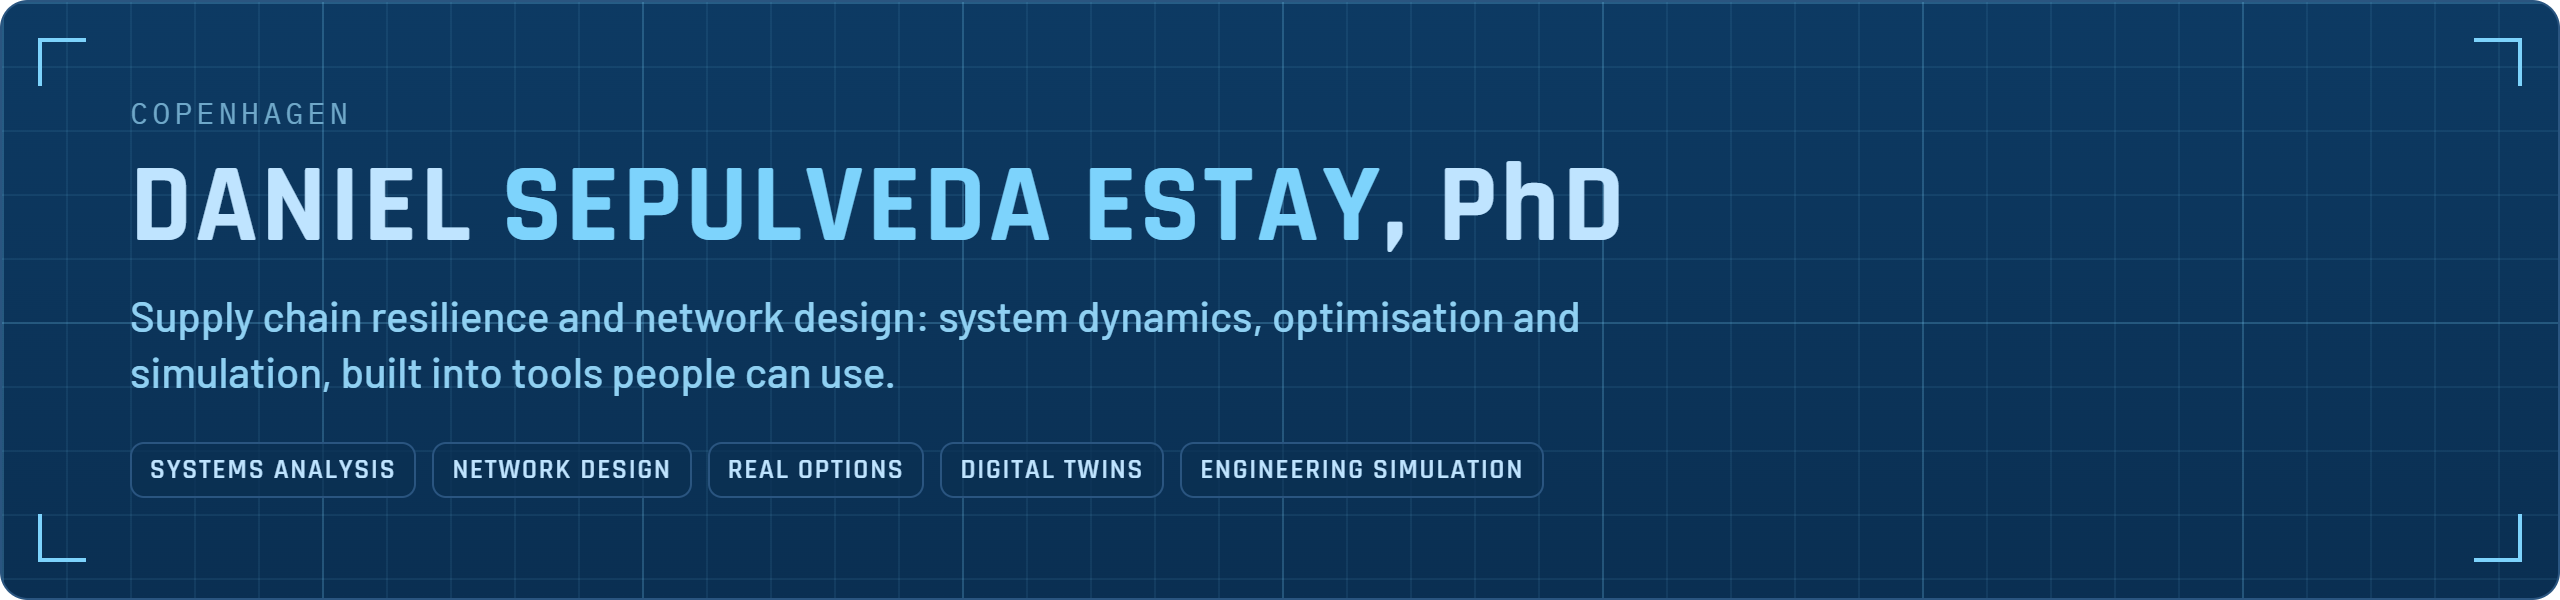
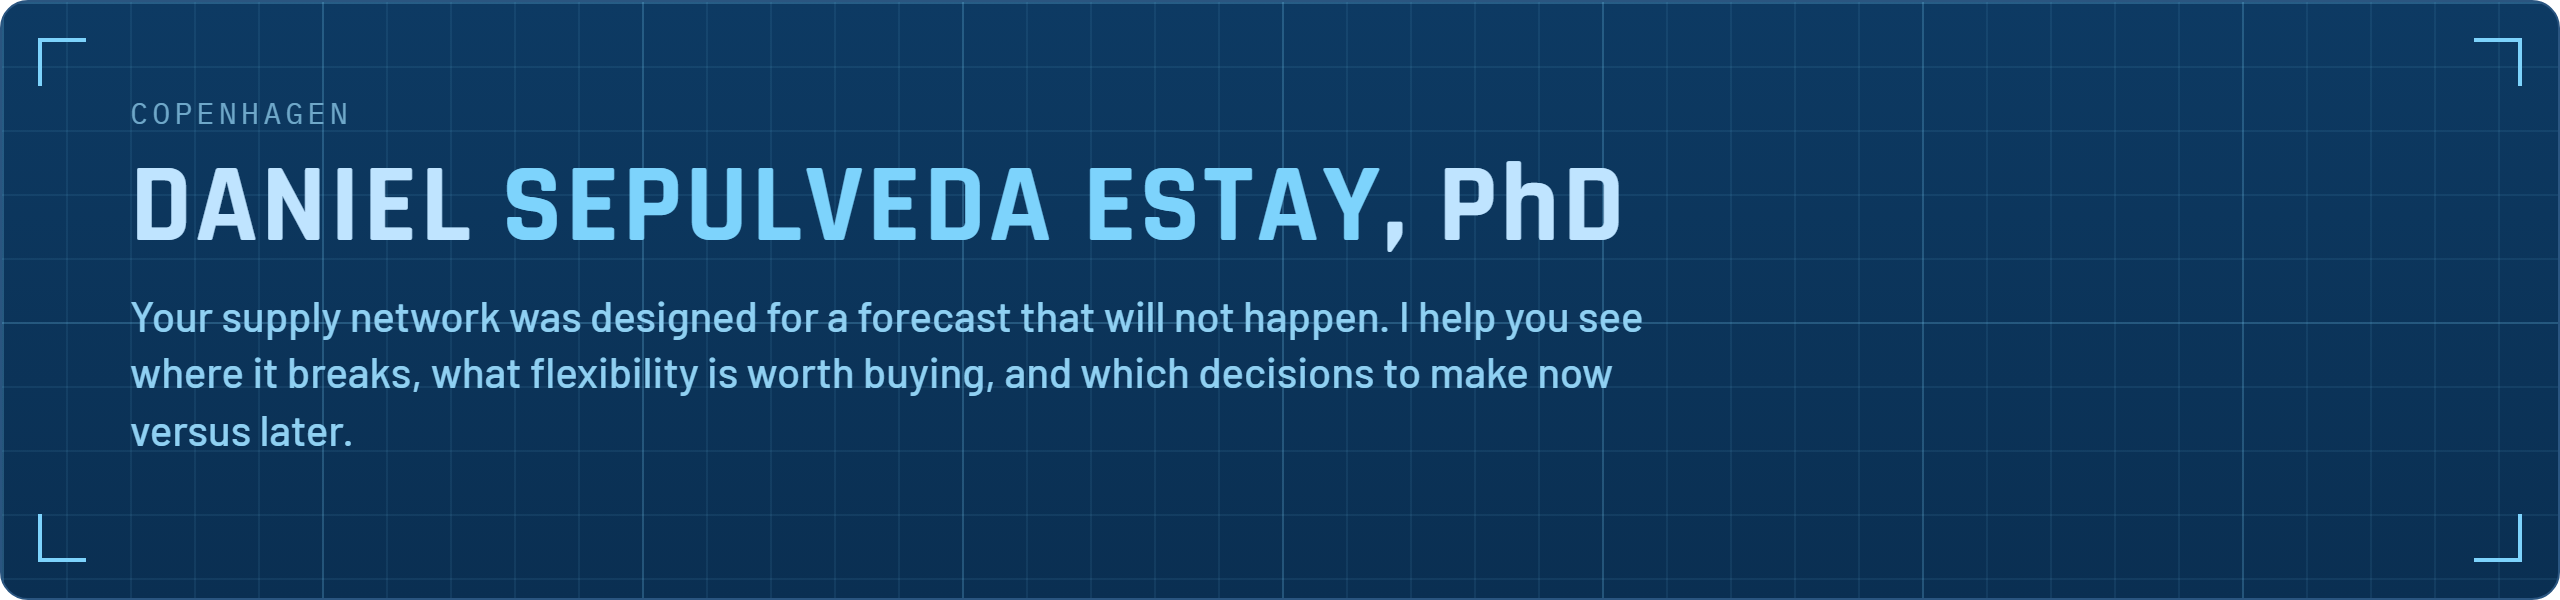
Reposition the profile for executives
- README rebuilt: headline on the executive's problem, five problems with driving ideas and
  tool links, four principles, three offers, four flagship tools as business questions,
  credibility strip, one call to action, and a Technical depth link. Expertise list,
  V&V text, research list and other tools moved to the Estay Dynamics site.
- Banner re-rendered from its source with the headline and without the method chips.
- AI_Projects badge replaced by Decision Labs.
- New Real Options screenshot (assets/real-options.jpg).
- The daily projects-table Action is switched off (manual run only).

Changed region(s): [[0.0312, 0.69, 0.5938, 0.84], [0.0312, 0.51, 0.6562, 0.57], [0.0312, 0.6, 0.625, 0.66]]

diff --git a/scripts/banner.html b/scripts/banner.html
@@ -41,8 +41,7 @@
   <div class="text">
     <div class="kicker">Copenhagen</div>
     <h1>Daniel <span>Sepulveda Estay</span><em>, PhD</em></h1>
-    <div class="tag">Supply chain resilience and network design: system dynamics, optimisation and simulation, built into tools people can use.</div>
-    <div class="chips"><b>Systems analysis</b><b>Network design</b><b>Real options</b><b>Digital twins</b><b>Engineering simulation</b></div>
+    <div class="tag">Your supply network was designed for a forecast that will not happen. I help you see where it breaks, what flexibility is worth buying, and which decisions to make now versus later.</div>
   </div>
 </div>
 <script>if (location.search.indexOf("light") >= 0) document.documentElement.className = "light";</script>

diff --git a/README.md b/README.md
@@ -1,134 +1,94 @@
 <picture>
-  <source media="(prefers-color-scheme: light)" srcset="assets/banner-light.png?v=3">
-  <img src="assets/banner-dark.png?v=3" width="100%" alt="Daniel Sepulveda Estay, PhD — supply chain resilience and network design: system dynamics, optimisation and simulation, built into tools people can use.">
+  <source media="(prefers-color-scheme: light)" srcset="assets/banner-light.png?v=4">
+  <img src="assets/banner-dark.png?v=4" width="100%" alt="Daniel Sepulveda Estay, PhD. Your supply network was designed for a forecast that will not happen. I help you see where it breaks, what flexibility is worth buying, and which decisions to make now versus later.">
 </picture>
 
-PhD, Technical University of Denmark (DTU) · MSc, MIT · Council member, System Dynamics Society · Copenhagen
+**For COOs, supply chain leaders and CFOs in mining, food and beverage, maritime and ports, and healthcare logistics.**
+I build the analysis as interactive decision tools your team can run, not as slide decks.
+**[Book a 30-minute conversation about your network →](https://kathuman.github.io/estay-dynamics/contact.html)**
 
 [![Estay Dynamics](https://img.shields.io/badge/Estay_Dynamics-consulting-7dd3fc?style=for-the-badge&labelColor=0a2f52)](https://kathuman.github.io/estay-dynamics/)
-[![Projects](https://img.shields.io/badge/AI_Projects-live_tools-7dd3fc?style=for-the-badge&labelColor=0a2f52)](https://kathuman.github.io/claude-projects/)
+[![Decision Labs](https://img.shields.io/badge/Decision_Labs-live_tools-7dd3fc?style=for-the-badge&labelColor=0a2f52)](https://kathuman.github.io/claude-projects/)
 [![LinkedIn](https://img.shields.io/badge/LinkedIn-connect-7dd3fc?style=for-the-badge&labelColor=0a2f52&logo=linkedin&logoColor=bfe4ff)](https://www.linkedin.com/in/danielsepulvedaestay)
 
-I help organisations understand how disruptions travel through their supply networks and design networks
-that absorb them — and I build the models as interactive tools, so decisions can be explored rather than
-read off a slide.
+## The problems I get called in for
 
-## Areas of expertise
+| What you are hearing | What is usually going on | See it |
+|---|---|---|
+| "We fix the same supply problem every year." | Recurring problems come from feedback and delays, not bad luck. | [Supply Pulse](https://kathuman.github.io/supply-pulse/) · [Lag Lab](https://kathuman.github.io/claude-projects/lag-lab/) |
+| "Planning keeps calling it forecast error." | Overshoot after a demand step is the structure of planning, not the forecast. | [Lag Lab](https://kathuman.github.io/claude-projects/lag-lab/) |
+| "We don't know which disruption would really hurt us." | Exposure is time-to-survive versus time-to-recover, not a risk-register score. | [Global Disruption Atlas](https://kathuman.github.io/estay-dynamics/atlas/) · [Network Stress Test](https://kathuman.github.io/claude-projects/network-stress-test/web/) |
+| "We're committing capital on one forecast." | Flexibility has a price you can calculate. Stage, defer or lease before you commit. | [Real Options for Network Design](https://kathuman.github.io/claude-projects/real-options/) |
+| "Commercial, supply and network decisions move at different speeds and collide." | Clockspeed mismatch is a design problem, not a coordination problem. | [Clockspeed Balancing](https://kathuman.github.io/claude-projects/clockspeed/) |
 
-- **[Systems analysis](https://kathuman.github.io/estay-dynamics/expertise/systems-analysis.html)** — system dynamics and systemic risk analysis: why problems recur after every fix, how far disruptions travel through a network, and how much flexibility (buffers, second sources, alternative routes) it pays to hold; causal loop diagrams, stock-and-flow simulation, group model building and executive workshops
-- **[Network design optimisation](https://kathuman.github.io/estay-dynamics/expertise/network-design-optimization.html)** — MILP and stochastic programming for facility, sourcing and capacity decisions, stress-tested by Monte Carlo
-- **[Real options](https://kathuman.github.io/estay-dynamics/expertise/real-options.html)** — the value of deferring, staging or abandoning a network investment under uncertainty
-- **[Simulation and digital twins](https://kathuman.github.io/estay-dynamics/expertise/simulation-digital-twins.html)** — discrete-event, agent-based and Monte Carlo models that test warehouse, production and network changes before capital is committed
-- **[Maritime and cyber-physical risk](https://kathuman.github.io/estay-dynamics/expertise/maritime-cyber-physical-risk.html)** — how fast detection and response must be to keep a cyber incident in ship or port systems from becoming a physical loss
-- **[Engineering simulation](https://kathuman.github.io/estay-dynamics/expertise/engineering-simulation.html)** — validated physics models for concept and feasibility decisions: fluid flow and forces (CFD), robotic cell reach and cycle times, mechanism dynamics, parametric CAD
+## How I approach it
 
-Sector experience: mining, beverage distribution, healthcare and pharmaceutical manufacturing.
+- **Model the system before optimising it.** First find the loops and delays that produce the problem. Then decide what to change.
+- **Test every decision against a fair baseline.** A response only counts if it beats what a competent team would have done anyway.
+- **Value flexibility explicitly.** Buffers, second sources and staged capacity cost money every year. They should carry a value too.
+- **Build a tool your team keeps.** The model stays with your analysts, who can rerun it when the next question arrives.
 
-## Featured work
+## Ways to work together
+
+**1. Disruption Diagnostic.** For COOs and supply chain leaders after a disruption, facing a problem that keeps coming back, or answering the board's "what if X closes?"
+- *Format:* a 2-day executive workshop, with about two weeks of preparation and write-up. Fixed fee.
+- *What happens:* your leadership team maps why the problem recurs: its feedback loops and delays. The main sites and routes are screened on time-to-survive versus time-to-recover. Response options are tested live in the room.
+- *You leave with:* a causal map the team agrees on, a ranked list of exposures, the three leverage points worth acting on, and a short decision memo.
+- *See:* [Supply Pulse](https://kathuman.github.io/supply-pulse/) · [Lag Lab](https://kathuman.github.io/claude-projects/lag-lab/) · [Global Disruption Atlas](https://kathuman.github.io/estay-dynamics/atlas/)
+
+**2. Network Flexibility Study.** For CFOs and COOs about to commit capital: a new site, a capacity expansion, a second source or contract manufacturer, or a network redesign.
+- *Format:* 8–12 weeks. Fixed fee per phase.
+- *What happens:* the network design is optimised and stress-tested across thousands of plausible futures. The flexibility in each option is valued explicitly. Every decision is sorted into commit now, defer, stage, lease or walk away, and compared with a fair baseline.
+- *You leave with:* the option set with a value on each option, a staged plan with clear decision triggers, a board-ready investment memo, and the model itself.
+- *See:* [Real Options for Network Design](https://kathuman.github.io/claude-projects/real-options/) · [Network Stress Test](https://kathuman.github.io/claude-projects/network-stress-test/web/)
+
+**3. Decision Tool Build and Handover.** For heads of supply chain strategy and planning who want the capability in-house, not another report.
+- *Format:* 6–10 weeks to build, then three months of fixed support.
+- *What happens:* an interactive planning or stress-test tool is configured on your own network and data. It is checked against your historical outcomes, and your analysts are trained to run it.
+- *You leave with:* a working, validated tool with its code, a validation report, documentation and a team that can use it. Optional annual model review.
+- *See:* [Tierwise](https://kathuman.github.io/claude-projects/tierwise/) · [Network Stress Test](https://kathuman.github.io/claude-projects/network-stress-test/web/) · [how the tools are validated](https://kathuman.github.io/estay-dynamics/technical-depth.html)
+
+Most engagements start with the Diagnostic. I work with organisations in mining, food and beverage, maritime and ports, and healthcare logistics.
+
+## See it working
 
 <table>
 <tr>
 <td width="50%" valign="top">
-<a href="https://kathuman.github.io/estay-dynamics/atlas/"><img src="assets/disruption-atlas.jpg" alt="Global Disruption Atlas: a 3D globe of a supply network with live chokepoint conditions"></a>
-<b><a href="https://kathuman.github.io/estay-dynamics/atlas/">Global Disruption Atlas</a></b> — a disruption decision lab on a 3D globe:
-live chokepoint conditions, historical and hypothetical disruptions, and response levers (safety stock,
-second sources, air bridges) priced against time-to-survive and time-to-recover. A companion to
-<i>Engineering Flexibility in Supply Chain Design</i>.
+<a href="https://kathuman.github.io/estay-dynamics/atlas/"><img src="assets/disruption-atlas.jpg" alt="Global Disruption Atlas: a supply network on a 3D globe with live chokepoint conditions"></a>
+<b><a href="https://kathuman.github.io/estay-dynamics/atlas/">Global Disruption Atlas</a></b><br>
+<i>If a strait or a major port closes, which of our sites run out first, and what does each response cost?</i><br>
+It shows which buffers, second sources or air bridges are worth funding, by comparing each site's time-to-survive with its time-to-recover.
 </td>
 <td width="50%" valign="top">
-<a href="https://kathuman.github.io/claude-projects/network-stress-test/web/"><img src="assets/network-stress-test.jpg" alt="Network Stress Test: a global production, warehouse and consumer network on a world map"></a>
-<b><a href="https://kathuman.github.io/claude-projects/network-stress-test/web/">Network Stress Test</a></b> — a supply-network resilience sandbox:
-hundreds of editable nodes, a min-cost-flow solver, N-1 contingency scans, Monte Carlo stress tests and
-adversarial worst-case search.
-</td>
-</tr>
-<tr>
-<td width="50%" valign="top">
-<a href="https://kathuman.github.io/claude-projects/warehouse-model/web/"><img src="assets/warehouse-model.jpg" alt="Warehouse Model: a parametric warehouse in 3D with its key results"></a>
-<b><a href="https://kathuman.github.io/claude-projects/warehouse-model/web/">Warehouse Model</a></b> — warehouse design from first principles:
-a parametric FreeCAD model and an analytical model share one layout (proved identical on 400 designs),
-with simulation, total cost of ownership, an optimiser, and IFC / DXF / glTF export.
-</td>
-<td width="50%" valign="top">
-<a href="https://kathuman.github.io/supply-pulse/"><img src="assets/supply-pulse.jpg" alt="Supply Pulse: a demand step with overtime against the baseline, with results and demand against production"></a>
-<b><a href="https://kathuman.github.io/supply-pulse/">Supply Pulse</a></b> — a system-dynamics simulator of a packaged food and dairy supply chain. It shows
-how QA holds, shelf life, hiring and a distant ingredient supplier turn a demand peak or a plant outage into empty shelves,
-amplification and expired stock. Overtime, expedited QA and the planning policy are each measured against a
-fair baseline, with a decision lab, a play mode and a three-level tutorial; in English, Spanish and Danish.
+<a href="https://kathuman.github.io/supply-pulse/"><img src="assets/supply-pulse.jpg" alt="Supply Pulse: a demand step against a baseline, with results and production against demand"></a>
+<b><a href="https://kathuman.github.io/supply-pulse/">Supply Pulse</a></b><br>
+<i>Why does a demand peak or a plant stoppage turn into empty shelves, then written-off stock?</i><br>
+It tells you whether overtime, faster quality release or a different planning policy actually pays, measured against a fair baseline.
 </td>
 </tr>
 <tr>
 <td width="50%" valign="top">
-<a href="https://kathuman.github.io/claude-projects/tierwise/"><img src="assets/tierwise.jpg?v=2" alt="Tierwise: the Network Studio, a six-tier food supply network drawn by tier with production sites, warehouses, consumption points and routes, and an inspector"></a>
-<b><a href="https://kathuman.github.io/claude-projects/tierwise/">Tierwise</a></b> — multi-tier capacity planning for a food supply chain across latitudes:
-a consumption forecast becomes time-phased capacity requirements for warehouses and four tiers of CMOs (packaging,
-dosing, manufacturing, raw ingredients), with lead, release and transit times, yields and sourcing shares, over
-36 months and 10 further years. Draw and edit the network by tier in a Network Studio, with your own parameters;
-load your own chain from CSV or Excel, trace each shortfall to its markets, size
-the capacity to add, and plan within capacity with a linear program solved in the browser (HiGHS): stock built ahead,
-re-sourcing, fill rates and bottlenecks. With a four-level tutorial, in English, Spanish and Danish.
+<a href="https://kathuman.github.io/claude-projects/tierwise/"><img src="assets/tierwise.jpg?v=2" alt="Tierwise: a multi-tier food supply network drawn by tier, with an inspector"></a>
+<b><a href="https://kathuman.github.io/claude-projects/tierwise/">Tierwise</a></b><br>
+<i>Which site in our multi-tier chain runs out of capacity first, and when must we add more?</i><br>
+It sizes the capacity to add, site by site and year by year, and shows how much demand is served if you add nothing.
 </td>
 <td width="50%" valign="top">
-<a href="https://kathuman.github.io/claude-projects/tube-flow-sim/"><img src="assets/tube-flow.jpg" alt="Tube Flow: vorticity around a NACA 4412 wing section at 8 degrees"></a>
-<b><a href="https://kathuman.github.io/claude-projects/tube-flow-sim/">Tube Flow</a></b> — 3D lattice-Boltzmann CFD on the GPU: spheres, STL
-shapes and wing sections, validated against exact solutions and published data, with a grid-convergence
-study in its <a href="https://kathuman.github.io/claude-projects/tube-flow-sim/validation.html">validation report</a>.
-</td>
-</tr>
-<tr>
-<td width="50%" valign="top">
-<a href="https://kathuman.github.io/claude-projects/cobot-lab/"><img src="assets/cobot-lab.jpg" alt="Cobot Lab: a UR5e arm with its tool frame, joint sliders and motor loads"></a>
-<b><a href="https://kathuman.github.io/claude-projects/cobot-lab/">Cobot Lab</a></b> — Universal Robots arms from their published parameters:
-inverse kinematics, timed motion, path planning around obstacles, physics with pick &amp; place, URScript
-export and a ROS bridge.
+<a href="https://kathuman.github.io/claude-projects/real-options/"><img src="assets/real-options.jpg" alt="Real Options for Network Design: the value of flexibility, five strategies compared and a decision map"></a>
+<b><a href="https://kathuman.github.io/claude-projects/real-options/">Real Options for Network Design</a></b><br>
+<i>Should we build full scale now, build smaller and expand, wait, or lease?</i><br>
+It puts a value on each option against the best fixed design, and gives the demand levels that should trigger the next decision.
 </td>
 </tr>
 </table>
 
-## Verification and validation
-
-Each model is checked against an independent reference before it is used: the CFD solver against Hagen–Poiseuille flow, the Haberman–Sayre
-wall-corrected Stokes drag and Johnson &amp; Patel's sphere wakes; the robot kinematics on 1,600+ checks;
-the warehouse layout against an independent FreeCAD model; the chess rules by perft against published move counts, with every course exercise checked by Stockfish and the endgame tablebase. The suites run in CI:
-
-[![Tube Flow tests](https://img.shields.io/github/actions/workflow/status/kathuman/claude-projects/tube-flow-ci.yml?branch=main&label=Tube%20Flow%20tests&style=for-the-badge&labelColor=0a2f52)](https://github.com/kathuman/claude-projects/actions/workflows/tube-flow-ci.yml)
-[![Cobot Lab tests](https://img.shields.io/github/actions/workflow/status/kathuman/claude-projects/cobot-lab-ci.yml?branch=main&label=Cobot%20Lab%20tests&style=for-the-badge&labelColor=0a2f52)](https://github.com/kathuman/claude-projects/actions/workflows/cobot-lab-ci.yml)
-[![Warehouse Model tests](https://img.shields.io/github/actions/workflow/status/kathuman/claude-projects/warehouse-model-ci.yml?branch=main&label=Warehouse%20Model%20tests&style=for-the-badge&labelColor=0a2f52)](https://github.com/kathuman/claude-projects/actions/workflows/warehouse-model-ci.yml)
-[![Chess tests](https://img.shields.io/github/actions/workflow/status/kathuman/claude-projects/chess-ci.yml?branch=main&label=Chess%20tests&style=for-the-badge&labelColor=0a2f52)](https://github.com/kathuman/claude-projects/actions/workflows/chess-ci.yml)
-[![Tierwise tests](https://img.shields.io/github/actions/workflow/status/kathuman/claude-projects/tierwise-ci.yml?branch=main&label=Tierwise%20tests&style=for-the-badge&labelColor=0a2f52)](https://github.com/kathuman/claude-projects/actions/workflows/tierwise-ci.yml)
-
-## Research and consulting
-
-- **[Estay Dynamics](https://kathuman.github.io/estay-dynamics/)** — my consulting practice: system dynamics and network optimisation for supply chains ([repo](https://github.com/kathuman/estay-dynamics))
-- **[DDRA — dynamic cyber-risk model](https://kathuman.github.io/estay-dynamics/ddra/)** — a five-stock system-dynamics model of the attack–defence loop in a ship's cyber-physical ballast system: detection delay decides containment or failure
-- **[Flexibility in Supply Chain](https://kathuman.github.io/Book-Flexibility-in-SC/)** — companion tools for the book ([repo](https://github.com/kathuman/Book-Flexibility-in-SC))
-- **[Supply Chain Digital Twin](https://github.com/kathuman/supply-chain-digital-twin)** — capacity under a months-on-hand stock policy and end-to-end lead time across a multi-tier network (Streamlit)
-- **[Pharma supply chain ABM](https://github.com/kathuman/pharma-supply-chain-abm)** — an agent-based model of material through a CMO chain (Mesa, Streamlit)
-- **[System dynamics models](https://github.com/kathuman/Vensim-Experiments)** — Vensim models in public health, epidemiology and cyber-resilience
-
-## Selected projects
-
-<!-- PROJECTS:START -->
-Further tools and experiments, newest first. The full list of 23 is on the [projects site](https://kathuman.github.io/claude-projects/).
-
-| Project | What it is | |
-|---|---|---|
-| [Lag Lab](https://kathuman.github.io/claude-projects/lag-lab/) | After a demand step, production overshoots and planning calls it forecast error. | [code](https://github.com/kathuman/claude-projects/tree/main/lag-lab) |
-| [Plumb](https://kathuman.github.io/claude-projects/balancebot-sim/) | A 3D simulator for a two-wheeled balancing robot (v1.3). | [code](https://github.com/kathuman/claude-projects/tree/main/balancebot-sim) |
-| [Network Design Visuals](https://kathuman.github.io/claude-projects/supply-chain-viz/) | A browsable library of 17 supply-chain network-design visualizations, ordered simple → advanced: demand bars, cost-to-serve stacks, O–D flow maps, an… | [code](https://github.com/kathuman/claude-projects/tree/main/supply-chain-viz) |
-| [Scientific Calculator](https://kathuman.github.io/claude-projects/scientific-calculator/) | A keyboard-friendly scientific calculator with a real recursive-descent expression parser (no eval), DEG/RAD/GRAD modes, memory, inverse trig via a 2nd key,… | [code](https://github.com/kathuman/claude-projects/tree/main/scientific-calculator) |
-| Problem Log (Android) | A native Android app that turns a spoken or typed problem description into a structured record — title, summary, category, short-term mitigation, long-term… | [code](https://github.com/kathuman/claude-projects/tree/8b96c8b66ac28f037989d78b0b1d251bbae5e5c3/problemlog-android) |
-| [Real Options for Network Design](https://kathuman.github.io/claude-projects/real-options/) | Prices the flexibility in a supply network design against a fair baseline: commit now, the best fixed design, wait and see, stage and expand, and a lease… | [code](https://github.com/kathuman/claude-projects/tree/main/real-options) |
-
-**Early development:** working prototypes that are still being shaped, less finished and less tested than the projects above.
-
-| Project | What it is | |
-|---|---|---|
-| [Clockspeed Balancing](https://kathuman.github.io/claude-projects/clockspeed/) | A management flight simulator for the conflict between commercial strategy (which moves in months), the product supply chain (about a year) and the network… | [code](https://github.com/kathuman/claude-projects/tree/main/clockspeed) |
-| [Sensor Deck](https://kathuman.github.io/claude-projects/phone-sensors/) | Every sensor a phone's browser can read, live in one page, with nothing to install. | [code](https://github.com/kathuman/claude-projects/tree/main/phone-sensors) |
-| [Face Morph](https://kathuman.github.io/claude-projects/face-morph/) | Live face-landmark detection and triangulated face morphing, entirely on-device. | [code](https://github.com/kathuman/claude-projects/tree/main/face-morph) |
-<!-- PROJECTS:END -->
+The examples run on illustrative data, mostly from food and dairy. The methods transfer to other sectors.
 
 ---
 
-Open to consulting engagements — [get in touch](https://kathuman.github.io/estay-dynamics/contact.html).
+PhD, Technical University of Denmark · MSc, MIT · Council member, System Dynamics Society · Published in the *Journal of Simulation*, the NATO Science Series and *Computers & Security* · Past sector experience in mining, beverage distribution, healthcare and pharmaceutical manufacturing · Copenhagen
+
+**[Book a 30-minute conversation about your network →](https://kathuman.github.io/estay-dynamics/contact.html)**
+
+<sub>[Technical depth](https://kathuman.github.io/estay-dynamics/technical-depth.html): validation and test suites, research, the full tool portfolio and the lab.</sub>
